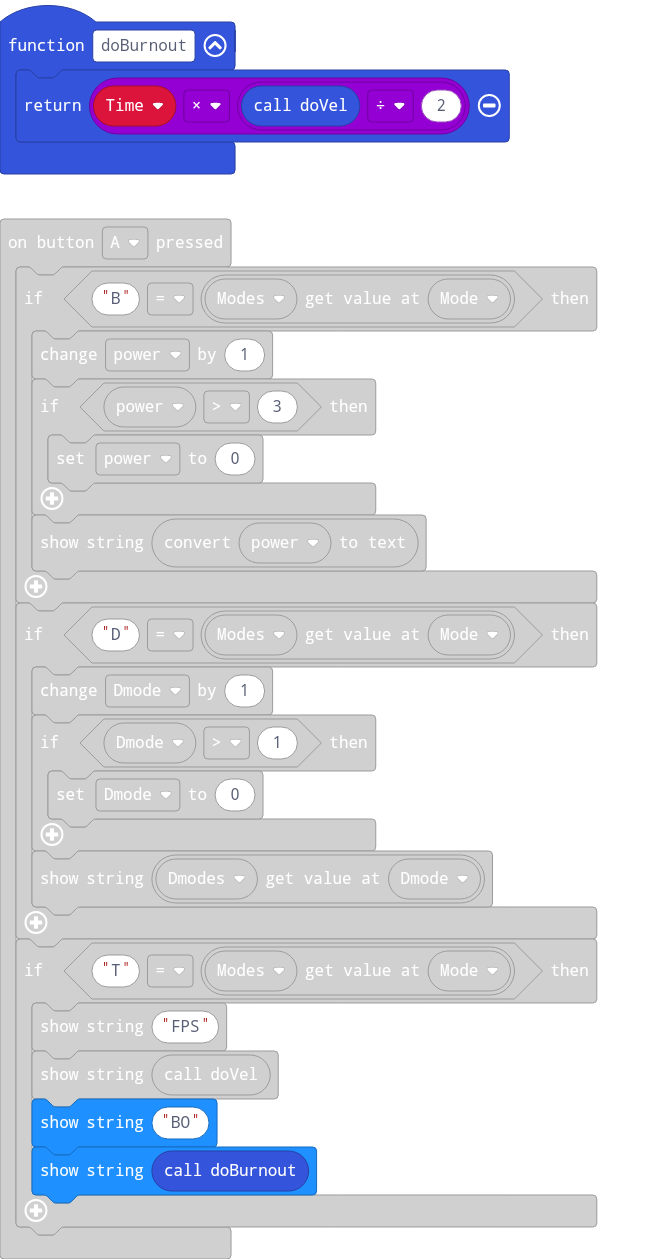
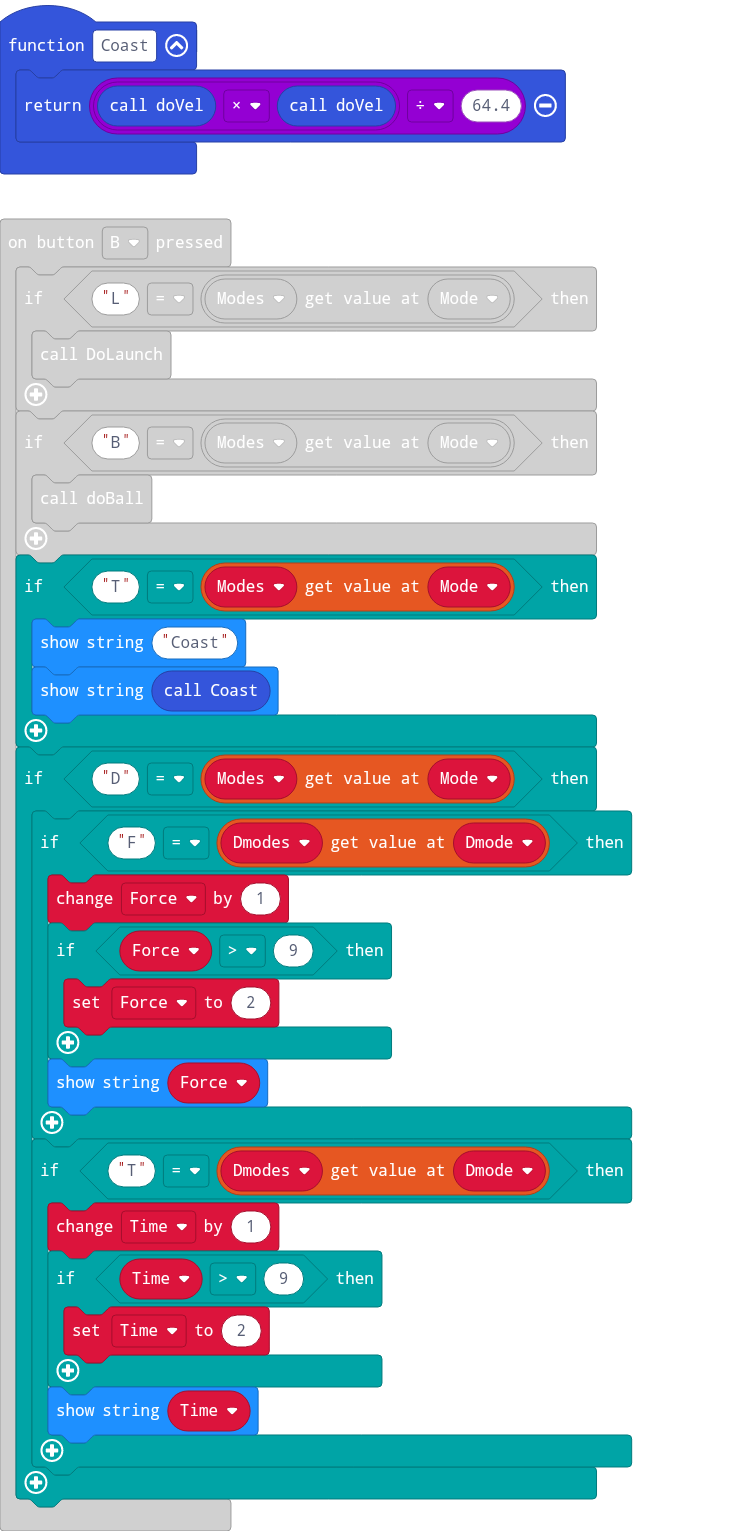
Update main.blocks, main.ts

diff --git a/main.ts b/main.ts
@@ -1,3 +1,6 @@
+function Coast () {
+    return doVel() * doVel() / 64.4
+}
 input.onButtonPressed(Button.A, function () {
     if ("B" == Modes[Mode]) {
         power += 1
@@ -49,6 +52,10 @@ input.onButtonPressed(Button.B, function () {
     }
     if ("B" == Modes[Mode]) {
         doBall()
+    }
+    if ("T" == Modes[Mode]) {
+        basic.showString("Coast")
+        basic.showString("" + (Coast()))
     }
     if ("D" == Modes[Mode]) {
         if ("F" == Dmodes[Dmode]) {
